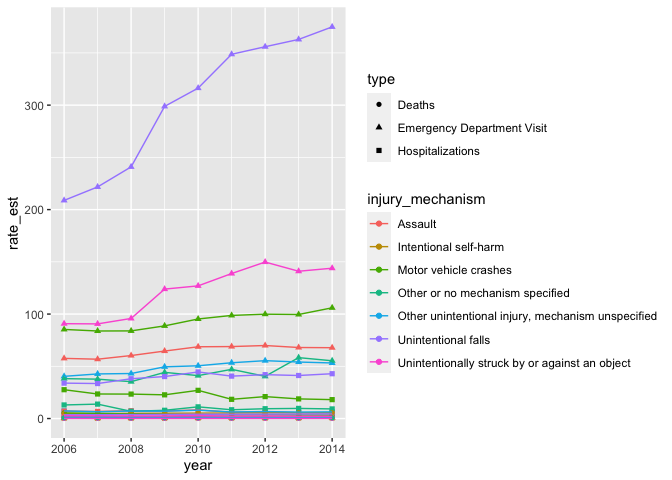
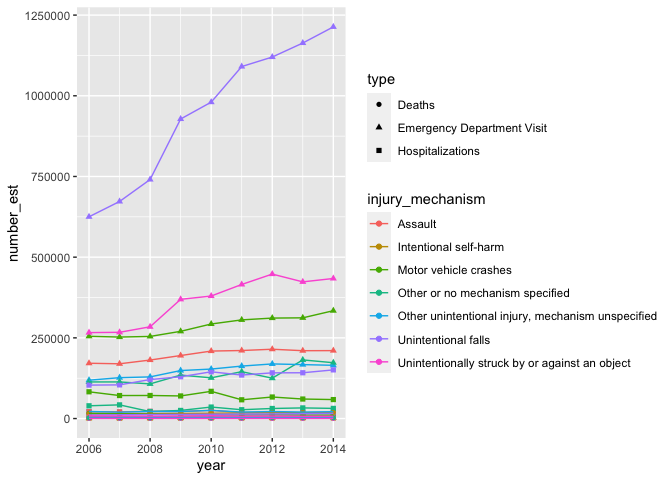
Changed order

diff --git a/challenges/project1.md b/challenges/project1.md
@@ -85,6 +85,8 @@ injury\_mechanism has 7 possible values:
     Hospitalization and do not result in death are not reported.
   - This data is likely aggregated from many different hospitals, so its
     completeness is uncertain.
+  - Population increased year over year, but the data set offers a
+    normalized option of rate\_est.
 
 # Data Ingestion
 
@@ -96,8 +98,7 @@ injury\_mechanism has 7 possible values:
 
 *A Marked Increase* - The traumatic brain injuries reported in this
 dataset increased dramatically from 2006 to 2014, primarily due to a
-nearly twofold increase in unintentional falls. (The dramatic increase
-came primarily from the following type…)
+nearly twofold increase in unintentional falls.
 
 ``` r
 library(tidyverse)
@@ -119,9 +120,9 @@ tbi_summary <-
   tbi_year %>%
   mutate(year = as.integer(year)) %>%
   group_by(year, injury_mechanism) %>%
-  summarize(total = sum(number_est)) %>%
+  summarize(total = sum(number_est)/1000) %>%
   filter(total > 0) %>%
-  mutate(total = total / 1000)
+  mutate(total = total)
 ```
 
     ## `summarise()` regrouping output by 'year' (override with `.groups` argument)
@@ -146,11 +147,43 @@ tbi_summary %>%
   - Total traumatic brain injuries (TBIs) reported from unintentional
     falls nearly doubled from 2006 to 2014, while TBIs from people
     unintentionally struck by or against an object raised somewhat, and
-    TBIs from other injury mechanisms stayed roughly constant. While
-    population did increase, population did not double in this
-    timeframe, so there is still a significant effect here. It is
-    possible that some factor led to more reporting of TBIs, possibly
-    increased awareness among medical professionals.
+    TBIs from other injury mechanisms stayed roughly constant.
+  - Some of the increase could be due to population increase. This
+    dataset initially looks to offer a normalized variable of rate\_est
+    that is per 100,000 people, but it says “per 100,000 people in
+    2014”, so it is unclear whether using that variable would factor
+    in year over year population increases.
+  - It is possible that some factor led to more reporting of TBIs,
+    possibly increased awareness among medical professionals.
+
+*Why So Many More TBIs Reported?*
+
+  - This dataset cannot directly answer the question of why so many more
+    truamatic brain injuries for older adults were reported in 2014 than
+    in 2006, but I have some theories. Here I looked into reports by
+    type.
+
+<!-- end list -->
+
+``` r
+tbi_year %>%
+  filter(injury_mechanism != "Total") %>%
+  ggplot(mapping = aes(x = year, y = number_est, color = injury_mechanism, shape = type)) +
+  geom_point() +
+  geom_line()
+```
+
+![](project1_files/figure-gfm/type-1.png)<!-- -->
+
+**Observations**:
+
+  - This graph shows that the increase in total TBIs from unintentional
+    falls in this dataset was primarily from Emergency Department
+    visits. So the increase could be due to more Emergency Departments
+    being added to the dataset, or more awareness of TBI in Emergency
+    Departments leading to more classification of TBI in their data. It
+    could also be due to an actual increase in unintentional falls, but
+    it is unclear what would cause such an increase.
 
 *Older Adults Most Affected* - Based on 2014 age group data, traumatic
 brain injuries from unintentional falls primarily affect adults 75+,
@@ -193,35 +226,13 @@ age_summary %>%
     incidence of unintentional falls are 75+, followed by 0-4. So maybe
     the increase in unintentional falls is due to older people living
     longer and thus there being more older people who may have
-    unintentional falls.
+    unintentional falls. This data set does not enable exploring how
+    many more older adults there were in 2014 than 2006, but it can’t
+    possibly be an almost twofold increase.
 
-*Why So Many More TBIs Reported?*
-
-  - This dataset cannot directly answer the question of why so many more
-    truamatic brain injuries for older adults were reported in 2014 than
-    in 2006, but I have some theories. Here I looked into reports by
-    type.
-
-<!-- end list -->
-
-``` r
-tbi_year %>%
-  filter(injury_mechanism != "Total") %>%
-  ggplot(mapping = aes(x = year, y = rate_est, color = injury_mechanism, shape = type)) +
-  geom_point() +
-  geom_line()
-```
-
-![](project1_files/figure-gfm/type-1.png)<!-- -->
-
-*TBIs from Unintentional Falls More Fatal for Older Adults* - While
-there are many children ages 0-4 with traumatic brain injuries from
-falls who have emergency department visits or hospitalizations, deaths
-from traumatic brain injuries from falls is much more commonly reported
-for the older adults. While for children age 0-4 traumatic brain
-injuries are most commonly caused by unintentional falls, deaths for
-children age 0-4 from traumatic brain injury are much more likely to be
-from assault or motor vehicle crashes.
+*TBIs from Unintentional Falls More Fatal for Older Adults* Deaths from
+TBIs also primarily impacts older adults, and unintentional falls is a
+leading cause.
 
 ``` r
 age_summary_deaths <-
@@ -247,143 +258,22 @@ age_summary_deaths %>%
 
 **Observations**:
 
-  - Unintentional falls for the 75+ age group was also the leading cause
-    of TBI-related deaths in 2014. Intentional self-harm was a distant
-    second for most common cause of deaths, and was significant for all
-    age groups upward of 15 years old. TBIs from Motor Vehicle Crashes
-    was the third most significant cause of death.
-  - While looking at number of TBIs from unintentional falls, the 0-4
-    age group was the second highest age group, deaths from TBIs from
-    unintentional falls was minimal, dwarfed by deaths by assault.
-    Overall deaths from TBIs for the 0-4 age group were very low.
+  - While there are many children ages 0-4 with traumatic brain injuries
+    from falls who have emergency department visits or hospitalizations,
+    deaths from traumatic brain injuries from falls is much more
+    commonly reported for the older adults. While for children age 0-4
+    traumatic brain injuries are most commonly caused by unintentional
+    falls, deaths for children age 0-4 from traumatic brain injury are
+    much more likely to be from assault or motor vehicle crashes.
 
-<!-- end list -->
+*Summary*
 
-``` r
-age_summary_ed <-
-  tbi_age %>%
-  filter(type == "Emergency Department Visit") %>%
-  filter(number_est > 0, age_group != "0-17", age_group !="Total") %>%
-  mutate(thousands = number_est/1000)
-age_summary_ed
-```
-
-    ## # A tibble: 59 x 6
-    ##    age_group type        injury_mechanism          number_est rate_est thousands
-    ##    <chr>     <chr>       <chr>                          <dbl>    <dbl>     <dbl>
-    ##  1 0-4       Emergency … Motor Vehicle Crashes           5464     27.5     5.46 
-    ##  2 0-4       Emergency … Unintentional Falls           230776   1161     231.   
-    ##  3 0-4       Emergency … Unintentionally struck b…      53436    269.     53.4  
-    ##  4 0-4       Emergency … Other unintentional inju…      12007     60.4    12.0  
-    ##  5 0-4       Emergency … Assault                          674      3.4     0.674
-    ##  6 0-4       Emergency … Other or no mechanism sp…      19360     97.4    19.4  
-    ##  7 5-14      Emergency … Motor Vehicle Crashes          19785     48      19.8  
-    ##  8 5-14      Emergency … Unintentional Falls           133084    323.    133.   
-    ##  9 5-14      Emergency … Unintentionally struck b…     120839    293.    121.   
-    ## 10 5-14      Emergency … Other unintentional inju…      30656     74.4    30.7  
-    ## # … with 49 more rows
-
-``` r
-age_summary_ed$age_group <- 
-  factor(
-    age_summary_ed$age_group,
-    levels = c("0-4","5-14","15-24","25-34","35-44","45-54","55-64","65-74","75+"))
-age_summary_ed %>%
-  ggplot() +
-  geom_col(mapping = aes(x = age_group, y = thousands, fill = injury_mechanism), position = "dodge") +
-  scale_fill_discrete(name = "Injury Mechanism") +
-  labs(
-    title = "Emergency Room Visits Map to the Total",
-    x = "Age Group",
-    y = "Emergency Room Visits from TBIs in 2014 (thousands)"
-  )
-```
-
-![](project1_files/figure-gfm/unnamed-chunk-1-1.png)<!-- -->
-
-**Observations**:
-
-  - Emergency Room Visits map to the total.
-
-<!-- end list -->
-
-``` r
-age_summary_renamed <-
-  age_summary %>%
-  mutate(total = total/1000) %>%
-  mutate(injury_mechanism = ifelse(
-    injury_mechanism == "Unintentionally struck by or against an object", 
-    "Unintentional Strike with Object",
-    injury_mechanism)) %>%
-  mutate(injury_mechanism = ifelse(
-    injury_mechanism == "Other unintentional injury, mechanism unspecified", 
-    "Other Unintentional Injury",
-    injury_mechanism)) %>%
-  mutate(injury_mechanism = ifelse(
-    injury_mechanism == "Other or no mechanism specified", 
-    "Other",
-    injury_mechanism)) %>%
-  mutate(injury_mechanism = ifelse(
-    injury_mechanism == "Intentional self-harm", 
-    "Intentional Self-Harm",
-    injury_mechanism))
-age_summary_renamed
-```
-
-    ## # A tibble: 59 x 4
-    ## # Groups:   age_group [9]
-    ##    age_group injury_mechanism                  total total_rate
-    ##    <fct>     <chr>                             <dbl>      <dbl>
-    ##  1 0-4       Assault                            1.96        9.8
-    ##  2 0-4       Motor Vehicle Crashes              6.52       32.8
-    ##  3 0-4       Other                             20.5       103. 
-    ##  4 0-4       Other Unintentional Injury        12.9        65  
-    ##  5 0-4       Unintentional Falls              235.       1185. 
-    ##  6 0-4       Unintentional Strike with Object  54.0       272. 
-    ##  7 15-24     Assault                           69.7       159. 
-    ##  8 15-24     Intentional Self-Harm              3.32        7.5
-    ##  9 15-24     Motor Vehicle Crashes            119.        271. 
-    ## 10 15-24     Other                             35.5        80.9
-    ## # … with 49 more rows
-
-``` r
-age_summary_renamed$injury_mechanism <- 
-  factor(
-    age_summary_renamed$injury_mechanism,
-    levels = c(
-      "Unintentional Falls",
-      "Unintentional Strike with Object",
-      "Motor Vehicle Crashes",
-      "Assault",
-      "Other Unintentional Injury",
-      "Other",
-      "Intentional Self-Harm"))
-age_summary_renamed %>%
-  ggplot() +
-  geom_col(
-    mapping = aes(x = age_group, y = total, fill = age_group), 
-    position = "dodge") +
-  scale_fill_discrete(name = "Age Group") +
-  theme(
-    axis.title.x =  element_blank(),
-    axis.text.x = element_blank(),
-    axis.ticks.x = element_blank()
-    ) +
-  facet_wrap(~injury_mechanism) +
-  labs(
-    title = "TBIs from Assault and Car Crashes Most Prevalent for Teens, Young Adults",
-    x = "Age Group",
-    y = "Total TBIs (thousands)"
-  ) 
-```
-
-![](project1_files/figure-gfm/unnamed-chunk-2-1.png)<!-- -->
-
-**Observations**:
-
-  - While unintentional falls are most common for the age group of 75+
-    and the second most common age group is 0-4, with the age groups in
-    the middle having the fewest, none of the other causes of TBIs share
-    this pattern. In fact, Motor Vehicle Crashes and Assault share a
-    general pattern of being most common for the age group of 15-24 and
-    the total decreases for each ascending age group.
+Reported TBIs in this dataset increased by nearly a factor of 2 from
+2006 to 2014. The increase was primarily due to emergency department
+visits by adults age 75+ after an unintentional fall. This marked
+increase cannot be due to older adult population increase alone, and it
+seems so striking an increase that it makes me wonder if the data being
+aggregated changed significantly from 2006 to 2014, for example it’s
+possible that more hospitals’ data got added to the data set, or
+emergency departments changed how they were categorizing injuries to
+start reporting more TBIs.
